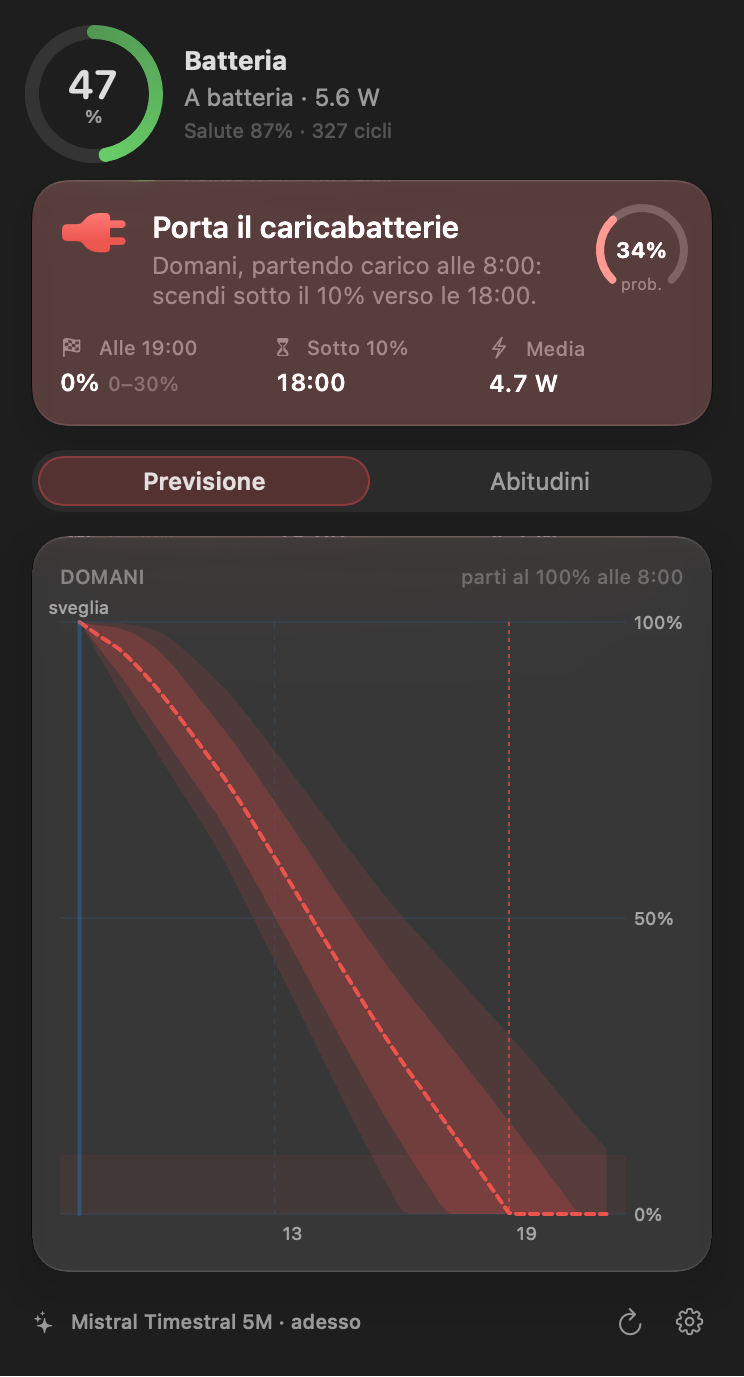
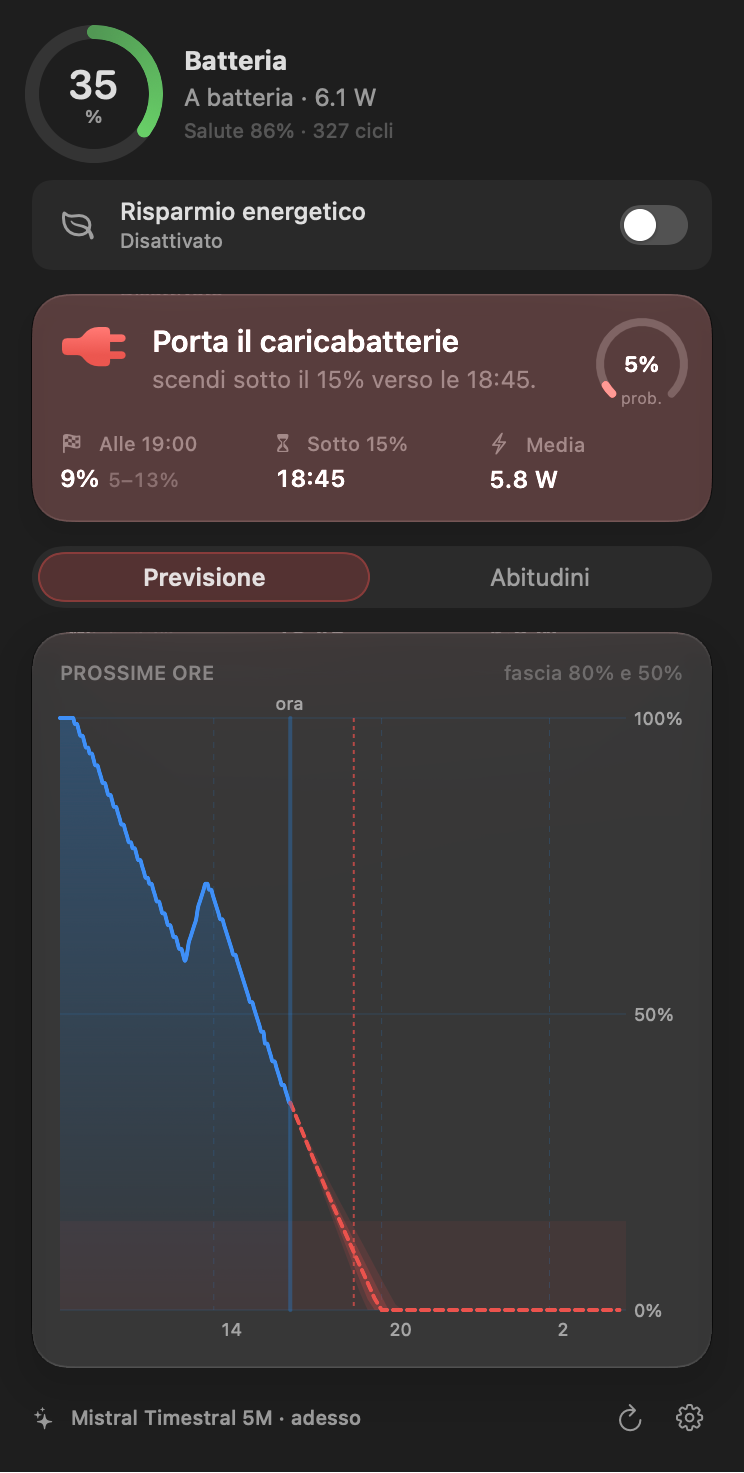
Update README with new screenshots, measured numbers and the new features

Changed region(s): [[0.0309, 0.0, 0.9583, 0.968], [0.8347, 0.6558, 0.8965, 0.687], [0.0309, 0.9368, 0.0618, 0.968]]

diff --git a/scripts/render-menubar/main.swift b/scripts/render-menubar/main.swift
@@ -1,0 +1,43 @@
+// Renders docs/menubar.png: the menu bar battery in its states, on a light and a dark menu bar.
+// Run with: ./scripts/render-menubar.sh
+import AppKit
+
+let states: [(label: String, level: Double, charging: Bool, tint: BatteryTint)] = [
+    ("100%", 100, false, .normal), ("76%", 76, false, .normal), ("42%", 42, false, .normal),
+    ("in carica", 63, true, .normal), ("risparmio", 55, false, .lowPower), ("sotto soglia", 9, false, .low),
+]
+let scale: CGFloat = 4, cell: CGFloat = 78, rowH: CGFloat = 44
+let size = NSSize(width: cell * CGFloat(states.count), height: rowH * 2)
+
+let rep = NSBitmapImageRep(bitmapDataPlanes: nil, pixelsWide: Int(size.width * scale), pixelsHigh: Int(size.height * scale),
+                           bitsPerSample: 8, samplesPerPixel: 4, hasAlpha: true, isPlanar: false,
+                           colorSpaceName: .deviceRGB, bytesPerRow: 0, bitsPerPixel: 0)!
+NSGraphicsContext.saveGraphicsState()
+NSGraphicsContext.current = NSGraphicsContext(bitmapImageRep: rep)
+NSGraphicsContext.current?.cgContext.scaleBy(x: scale, y: scale)
+
+for (row, dark) in [(1, false), (0, true)] {
+    let y = CGFloat(row) * rowH
+    (dark ? NSColor(white: 0.15, alpha: 1) : NSColor(white: 0.94, alpha: 1)).setFill()
+    NSRect(x: 0, y: y, width: size.width, height: rowH).fill()
+    let ink: NSColor = dark ? .white : .black
+    for (i, s) in states.enumerated() {
+        let icon = MenuBarBattery.image(level: s.level, charging: s.charging, showPercent: true, tint: s.tint)
+        // Template icons are recolored by macOS; do the same here.
+        let drawn = icon.isTemplate ? NSImage(size: icon.size, flipped: false) { r in
+            icon.draw(in: r)
+            ink.setFill()
+            r.fill(using: .sourceIn)
+            return true
+        } : icon
+        let x = CGFloat(i) * cell + (cell - icon.size.width) / 2
+        drawn.draw(at: NSPoint(x: x, y: y + 20), from: .zero, operation: .sourceOver, fraction: 1)
+        let label = NSAttributedString(string: s.label, attributes: [
+            .font: NSFont.systemFont(ofSize: 9, weight: .medium), .foregroundColor: ink.withAlphaComponent(0.55)])
+        label.draw(at: NSPoint(x: CGFloat(i) * cell + (cell - label.size().width) / 2, y: y + 6))
+    }
+}
+NSGraphicsContext.restoreGraphicsState()
+
+let out = CommandLine.arguments.count > 1 ? CommandLine.arguments[1] : "docs/menubar.png"
+try! rep.representation(using: .png, properties: [:])!.write(to: URL(fileURLWithPath: out))

diff --git a/README.md b/README.md
@@ -16,6 +16,10 @@
   <img src="docs/habits.png" width="340" alt="Abitudini">
 </p>
 
+<p align="center">
+  <img src="docs/menubar.png" width="720" alt="La batteria nella barra dei menu: normale, in carica, risparmio energetico, sotto soglia">
+</p>
+
 > *English:* BatteryOracle is a macOS menu bar app that learns how much power your Mac draws through the day and uses Mistral's Timestral time-series model, running locally on the CPU, to tell you whether the battery will last until the evening, with a probability, not a guess.
 
 ---
@@ -26,14 +30,16 @@
 - **Grafico delle prossime ore**: livello reale delle ultime 12 ore, previsione mediana e due fasce di incertezza (80% e 50%), con passaggio del mouse per leggere ogni punto.
 - **Pianifica domani**: dopo la fine giornata la previsione passa a domani, partendo carico all'ora del risveglio.
 - **Abitudini**: consumo medio ora per ora, energia al giorno divisa tra batteria e alimentatore, ora di punta, autonomia tipica.
-- **Avvisi**: una notifica al mattino se la giornata sarà al limite, e un'altra se durante il giorno il ritmo non basta.
+- **Avvisi**: una notifica al mattino se la giornata sarà al limite, e un'altra se durante il giorno il ritmo non basta. Arrivano solo quando lo schermo è acceso: se scattano a Mac chiuso, aspettano che lo riapri.
 - **Salute batteria**: capacità residua, cicli e temperatura direttamente nel popover.
-- Avvio al login, percentuale nella barra dei menu, soglia e orari configurabili.
+- **Batteria nella barra dei menu in stile Apple**, con la percentuale dentro per occupare poco spazio. Diventa **gialla** con il risparmio energetico attivo e **rossa** sotto la soglia scelta; in carica compare il fulmine.
+- **Interruttore del risparmio energetico** nel popover (vedi sotto).
+- Avvio al login, soglia e orari configurabili, percentuale dentro la batteria attivabile dalle impostazioni.
 
 ## Come funziona
 
 ```
- IOKit (AppleSmartBattery)          ogni minuto: livello, alimentatore, consumo del sistema (W)
+ IOKit (AppleSmartBattery)          ogni 2 minuti: livello, alimentatore, consumo del sistema (W)
           │                         + eventi di sospensione/risveglio
           ▼
  history.csv  ─────────────▶  serie di potenza a 15 minuti (ultimi 30 giorni)
@@ -58,14 +64,30 @@ Finché il motore Timestral non è installato, l'app usa un **profilo statistico
 
 ## Efficienza
 
+Misurato sull'app installata, a riposo (macOS 27, Apple Silicon):
+
 | | |
 |---|---|
-| App a riposo | ~0% CPU, ~75 MB di memoria (SwiftUI + Swift Charts) |
-| Campionamento | lettura diretta di IOKit ogni 2 minuti, nessun processo esterno; **nessuna attività a schermo spento** (coperchio chiuso, Power Nap): i risvegli parziali del Mac vengono ignorati |
+| App a riposo | **0% CPU, 0 risvegli, ~16 MB di memoria** (`footprint`, SwiftUI + Swift Charts) |
+| Campionamento | lettura diretta di IOKit ogni 2 minuti (tolleranza di 60 s, così il sistema la unisce ad altri risvegli), nessun processo esterno |
+| Mac chiuso | **nessuna attività a schermo spento**: i risvegli parziali del Mac (Power Nap, controlli di Mail e iCloud: migliaia al giorno) vengono ignorati, e la notte conta come un'unica sospensione nello storico |
 | Cambio alimentatore | notifica di sistema immediata, senza polling |
-| Previsione | ~2 s ogni ora a batteria, ogni 3 ore all'alimentatore (il livello di carica aggiorna comunque l'esito in tempo reale); il processo Python termina subito, quindi tra una previsione e l'altra **non resta niente in memoria** |
+| Previsione | ~2 s ogni ora a batteria, ogni 3 ore all'alimentatore (l'esito si aggiorna comunque con il livello reale a ogni lettura); il processo Python termina subito, quindi tra una previsione e l'altra **non resta niente in memoria** |
 | Timestral 5M | ~10 ms di inferenza, il resto è l'avvio di PyTorch; priorità *utility*, 2 thread |
 | Storico | CSV in append, ~1 MB per 30 giorni, compattato all'avvio |
+
+## Risparmio energetico senza password
+
+Nel popover c'è un interruttore che attiva e disattiva la modalità risparmio energetico di macOS. Non esiste un'API pubblica per farlo, quindi l'app esegue `pmset`, che richiede i permessi di root. Per non digitare la password a ogni clic, installa una volta una regola `sudoers` limitata a quei due comandi esatti:
+
+```sh
+t=$(mktemp) && echo "$(whoami) ALL=(root) NOPASSWD: /usr/bin/pmset -a lowpowermode 0, /usr/bin/pmset -a lowpowermode 1" > $t \
+  && sudo visudo -cf $t && sudo install -m 440 -o root -g wheel $t /etc/sudoers.d/batteryoracle; rm -f $t
+```
+
+Per rimuoverla: `sudo rm /etc/sudoers.d/batteryoracle`.
+
+L'app prova, in ordine: `sudo -n pmset` (silenzioso, con la regola), due comandi rapidi chiamati `BatteryOracle risparmio on` e `BatteryOracle risparmio off` (azione *Imposta modalità risparmio energetico*, anche questi senza password) e infine `pmset` con la richiesta di password di sistema.
 
 ## Installazione
 
@@ -106,16 +128,19 @@ Sources/BatteryOracle/
   Battery.swift          lettura IOKit e notifiche del cambio di alimentazione
   History.swift          log, serie a 15 minuti, sospensione, calibrazione, abitudini, demo
   Forecaster.swift       motore Timestral, profilo statistico, simulazione della scarica
-  AppModel.swift         campionamento, pianificazione, notifiche, impostazioni
+  AppModel.swift         campionamento, pianificazione, notifiche, risparmio energetico, impostazioni
   Views/                 popover, grafici, abitudini, impostazioni
+  Views/MenuBarBattery   l'icona della barra dei menu, disegnata a mano (percentuale dentro, colori)
 engine/forecast.py       richiesta JSON su stdin → quantili di consumo su stdout
-scripts/                 build della .app, icona, installazione del motore
+scripts/                 build della .app, icona, installazione del motore, render di docs/menubar.png
 ```
 
 ## Limiti noti
 
 - La capacità in Wh è stimata da mAh e tensione nominale delle celle; la calibrazione ne corregge l'errore dopo qualche scarica.
 - La telemetria `SystemLoad` è completa sui Mac Apple Silicon. Sui modelli Intel l'app usa la corrente della batteria, che è nota solo quando il Mac è scollegato.
+- A schermo spento (coperchio chiuso, o Mac fermo all'alimentatore con lo schermo inattivo) l'app non registra dati: i risvegli parziali non si distinguono dall'inattività, e registrarli falserebbe il consumo in sospensione. In modalità clamshell con monitor esterno funziona normalmente.
+- Il risparmio energetico richiede la regola `sudoers` per non chiedere la password (vedi sopra).
 - Le notifiche e l'avvio al login richiedono l'app installata come bundle (`make install`), non `swift run`.
 - Servono qualche ora di dati per la prima previsione e qualche giorno perché diventi affidabile.
 
@@ -125,14 +150,3 @@ scripts/                 build della .app, icona, installazione del motore
 - Idea ispirata a un reel di [@mattbonfanti](https://www.instagram.com/mattbonfanti/).
 
 Codice rilasciato con [licenza MIT](LICENSE).
-
-## Risparmio energetico senza password
-
-Il pulsante a forma di foglia attiva e disattiva la modalità risparmio energetico con `pmset`, che richiede i permessi di root. Per non digitare la password a ogni clic, installa una regola `sudoers` limitata a quei due comandi:
-
-```sh
-t=$(mktemp) && echo "$(whoami) ALL=(root) NOPASSWD: /usr/bin/pmset -a lowpowermode 0, /usr/bin/pmset -a lowpowermode 1" > $t \
-  && sudo visudo -cf $t && sudo install -m 440 -o root -g wheel $t /etc/sudoers.d/batteryoracle; rm -f $t
-```
-
-Per rimuoverla: `sudo rm /etc/sudoers.d/batteryoracle`. In alternativa, due comandi rapidi chiamati `BatteryOracle risparmio on` e `BatteryOracle risparmio off` (azione *Imposta modalità risparmio energetico*) funzionano senza password.
